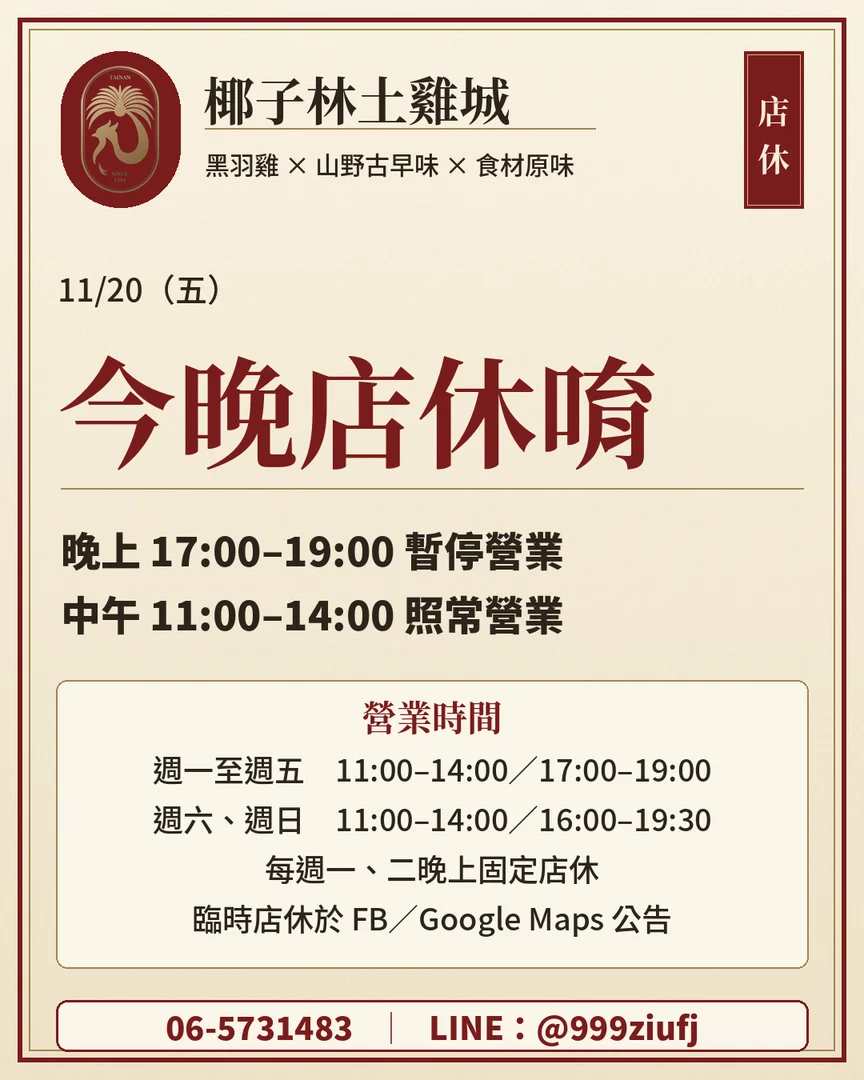
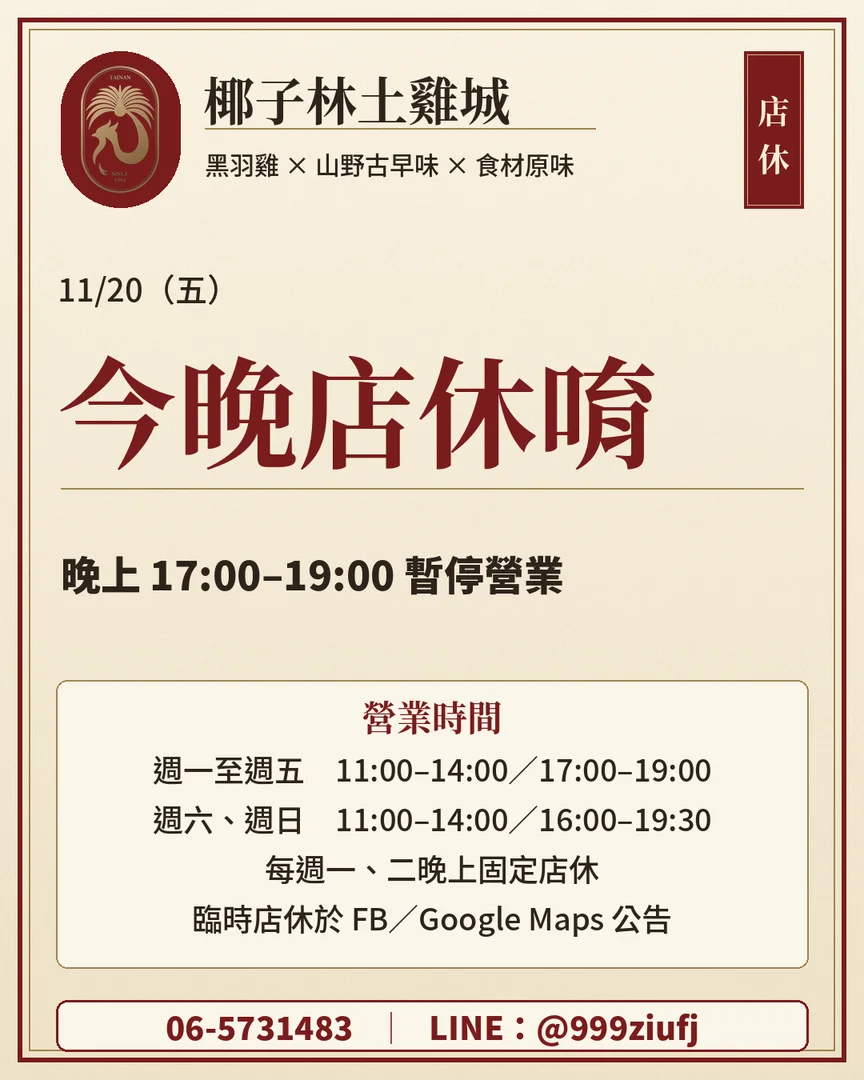
店休公告：移除中午營業說明
Claude-Session: https://claude.ai/code/session_011gXCdRYJ1au457auLeF6ae

Changed region(s): [[0.0625, 0.4889, 0.6562, 0.6111]]

diff --git a/index.html b/index.html
@@ -1143,7 +1143,7 @@ var NOTICE="";
  img：圖片代號（沒有圖就留 ""）
 */
 var NEWS=[
- {date:"2026-11-20",end:"2026-11-20",type:"店休",slot:"晚餐",title:"2026/11/20（五）晚上店休",text:"今晚（11/20）17:00–19:00 暫停營業，中午 11:00–14:00 照常營業，鄉親見諒！餐點及訂位問題，歡迎透過 LINE 或 Facebook 私訊。",img:"news-1120"},
+ {date:"2026-11-20",end:"2026-11-20",type:"店休",slot:"晚餐",title:"2026/11/20（五）晚上店休",text:"今晚（11/20）17:00–19:00 暫停營業，鄉親見諒！餐點及訂位問題，歡迎透過 LINE 或 Facebook 私訊。",img:"news-1120"},
  {date:"2026-11-20",end:"",type:"推薦菜",dish:"三杯雞",title:"家常下飯，來盤三杯雞",text:"鄉親～想吃家常下飯菜，來台南左鎮的椰子林土雞城點盤三杯雞吧！熱騰騰端上桌，配飯、配酒小酌都對味。家人聚餐、朋友相聚，也可以和左鎮烤雞、白斬雞、椰子雞一起點，一桌就是古早味～",img:"news-sanbei"},
  {date:"2026-11-18",end:"",type:"推薦菜",dish:"麻油羊肉",title:"天冷了，來盤熱騰騰的麻油羊肉",text:"鄉親～天涼了，來椰子林吃盤熱騰騰的麻油羊肉吧 🔥 麻油香氣一端上桌就聞到，配飯配小酌都對味！也有涮羊肉、羊肉火鍋可以選。",img:"news-sesame"},
  {date:"2026-11-15",end:"",type:"推廣",title:"遊覽車、團體用餐，歡迎預約",text:"鄉親～旅行社、公司行號、親友聚會，歡迎來椰子林包桌！店內有寬敞停車場，遊覽車可停放，團體最多可容納約 130～140 人。合菜 4000～6500 元，也可以和店家討論其他用餐方式，團體用餐請提前來電或 LINE 預約 🚌",img:"news-group",btns:1},
